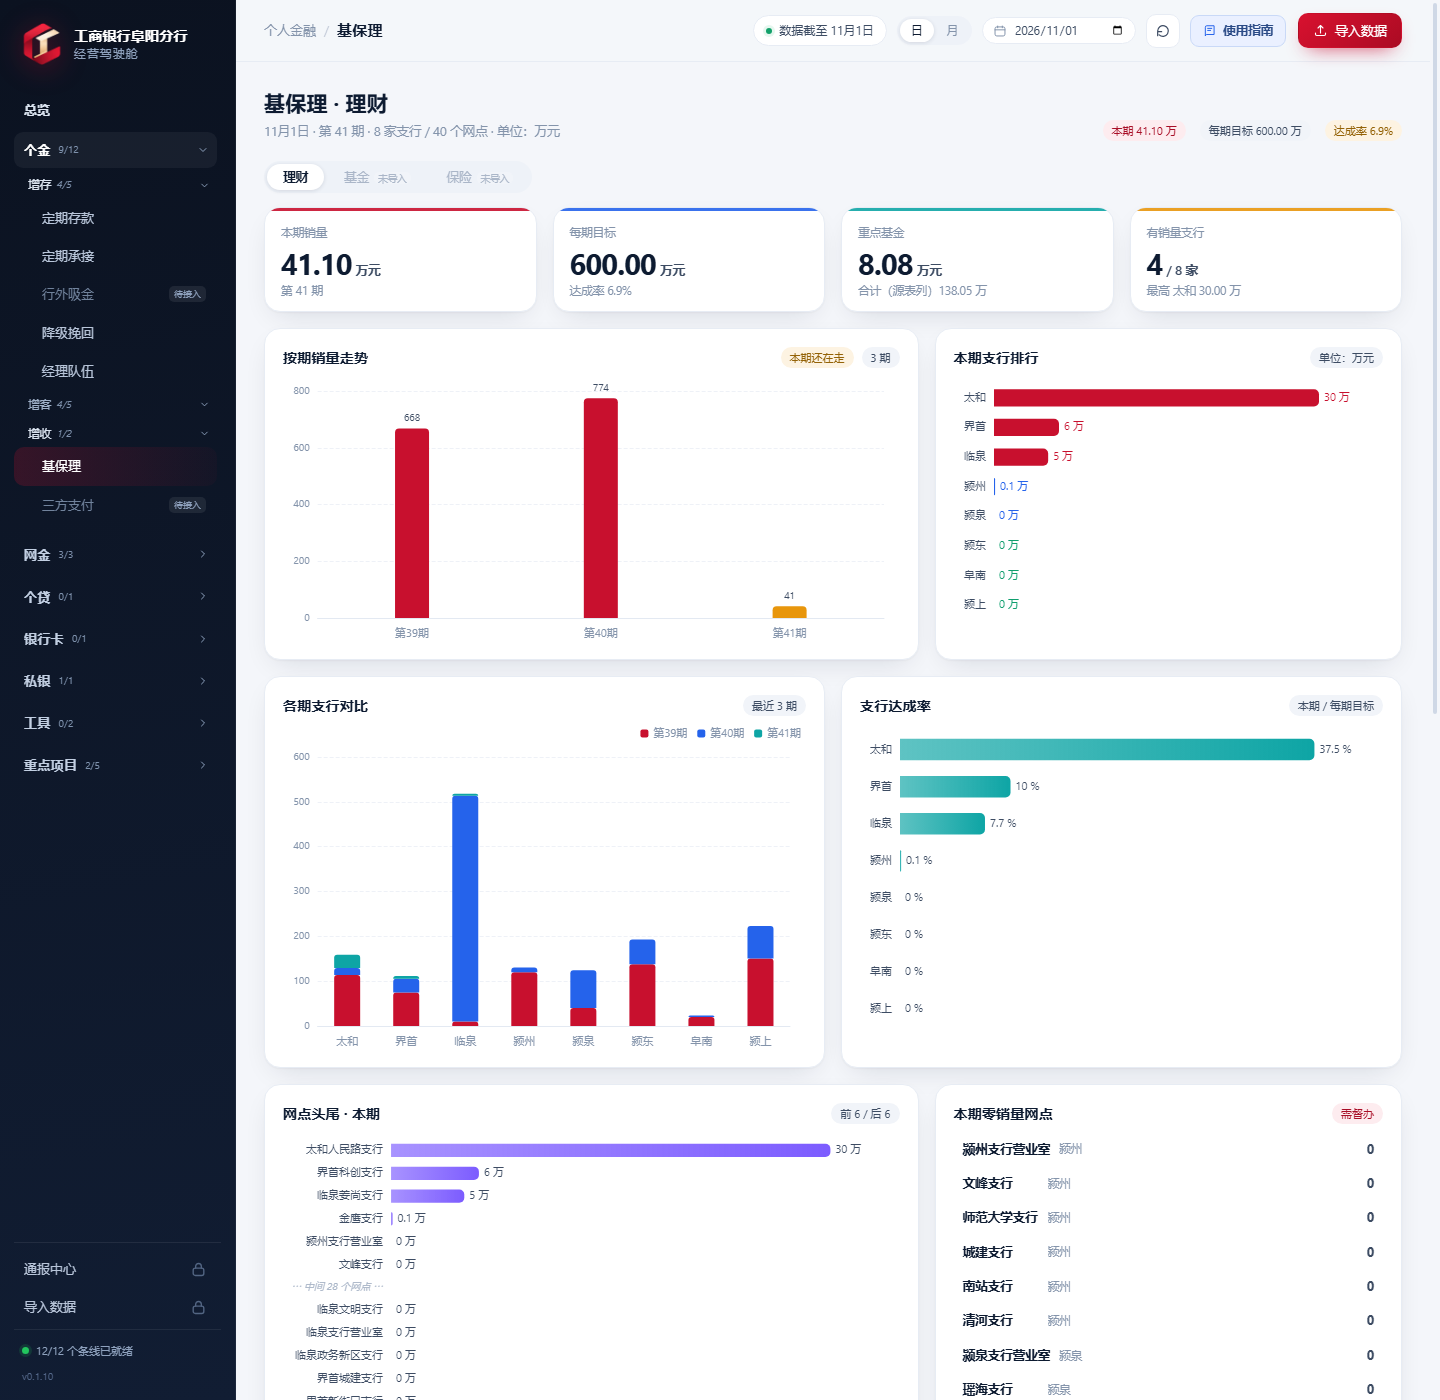
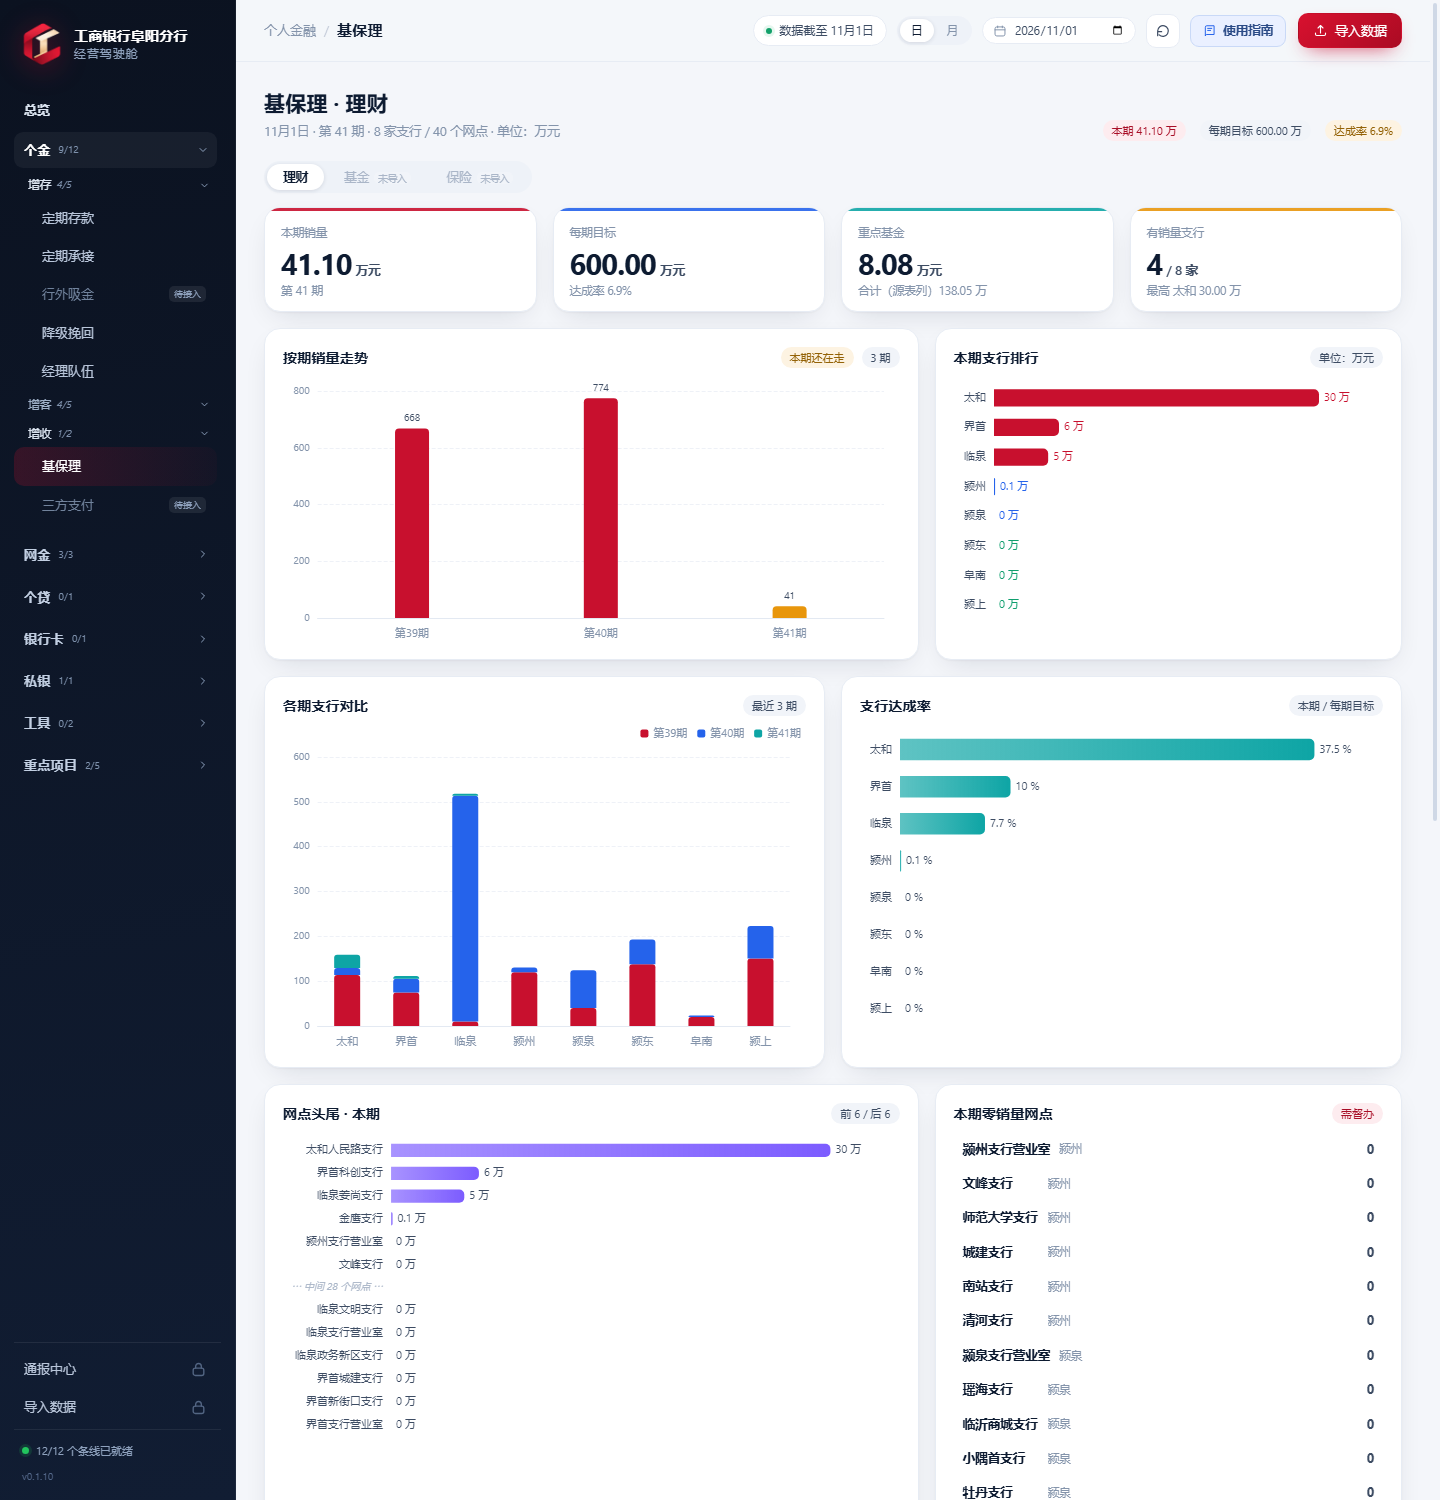
fix(jbl): 标题日期补斜杠写法（11/1）；补页面截图

diff --git a/src/ingest/jbl.py b/src/ingest/jbl.py
@@ -81,6 +81,26 @@ FIELD_RX = [
 
 TITLE_PERIOD_RX = re.compile(r'第\s*(\d{1,3})\s*期')
 
+# date_from_name（复用私银那套）不认 `11/1` 这种斜杠写法，这里补一条；
+# 只在**标题**上补，不动全局（文件名里斜杠通常是路径分隔符，容易误伤）
+SLASH_DATE_RX = re.compile(r'(?<!\d)(\d{1,2})/(\d{1,2})(?!\d)')
+
+
+def _date_from_title(text: str) -> str | None:
+    """标题里的日期：先走通用解析（11.1 / 2026-11-01 / 11月1日 / 20261101…），
+    再补一条斜杠写法（11/1）。"""
+    got = date_from_name(text)
+    if got:
+        return got
+    m = SLASH_DATE_RX.search(str(text or ''))
+    if m:
+        try:
+            mo, d = int(m.group(1)), int(m.group(2))
+            return dt.date(dt.date.today().year, mo, d).isoformat()
+        except ValueError:
+            return None
+    return None
+
 
 # ---------------------------------------------------------------- 小工具
 def _num(v):
@@ -316,7 +336,7 @@ def parse_files(files, as_of=None, want_kind=None):
         notes.append(f'标题里没写「第几期」，按列里最大期数 +1 推为本期第 {period} 期')
 
     # ---- 日期：手填 > 标题 > 文件名
-    dd = as_of or date_from_name(title) or None
+    dd = as_of or _date_from_title(title) or None
     if not dd:
         for name, _blob in files:
             dd = date_from_name(name)

diff --git a/docs/HANDOFF.md b/docs/HANDOFF.md
@@ -188,7 +188,7 @@ icbc-dashboard/
 │  ├─ MODULES.md              模块总表（自动生成，别手改）
 │  ├─ modules/<id>.md         每个模块的数据源/口径/坑（新增模块必写）
 │  ├─ skills/dashboard-new-module/  新增模块的标准流程（也是 ~/.dsh/skills 里的同名 skill）
-│  ├─ screenshots/            当前页面截图（home / jg / report-salary / upload）
+│  ├─ screenshots/            当前页面截图（home / jg / jbl / guide / changelog / upload…）
 │  └─ archive/PLAN-20261021.md  初版规划，已过时，勿作依据
 ```
 
@@ -842,6 +842,9 @@ icbc-dashboard/
      三条线的 `as_of` 可以不同，`api.build_jbl` 各自取最新一期。
 105. **日期从表里认，别预填 T-1**：导入页对这三条线**不预填「本期」**（留空），
      后端才用标题里的日期（`11.1第41期…` → 2026-11-01）。预填 T-1 会把真实日期盖掉。
+     认得的写法：`11.1` / `11/1` / `2026.11.1` / `2026-11-01` / `11月1日` / `2026年11月1日` /
+     `20261101`。`date_from_name` 不认斜杠，jbl 里补了一条 `SLASH_DATE_RX`（**只补在标题上**，
+     别塞进全局：文件名里的斜杠是路径分隔符，会误伤）。
 
 ---
 
